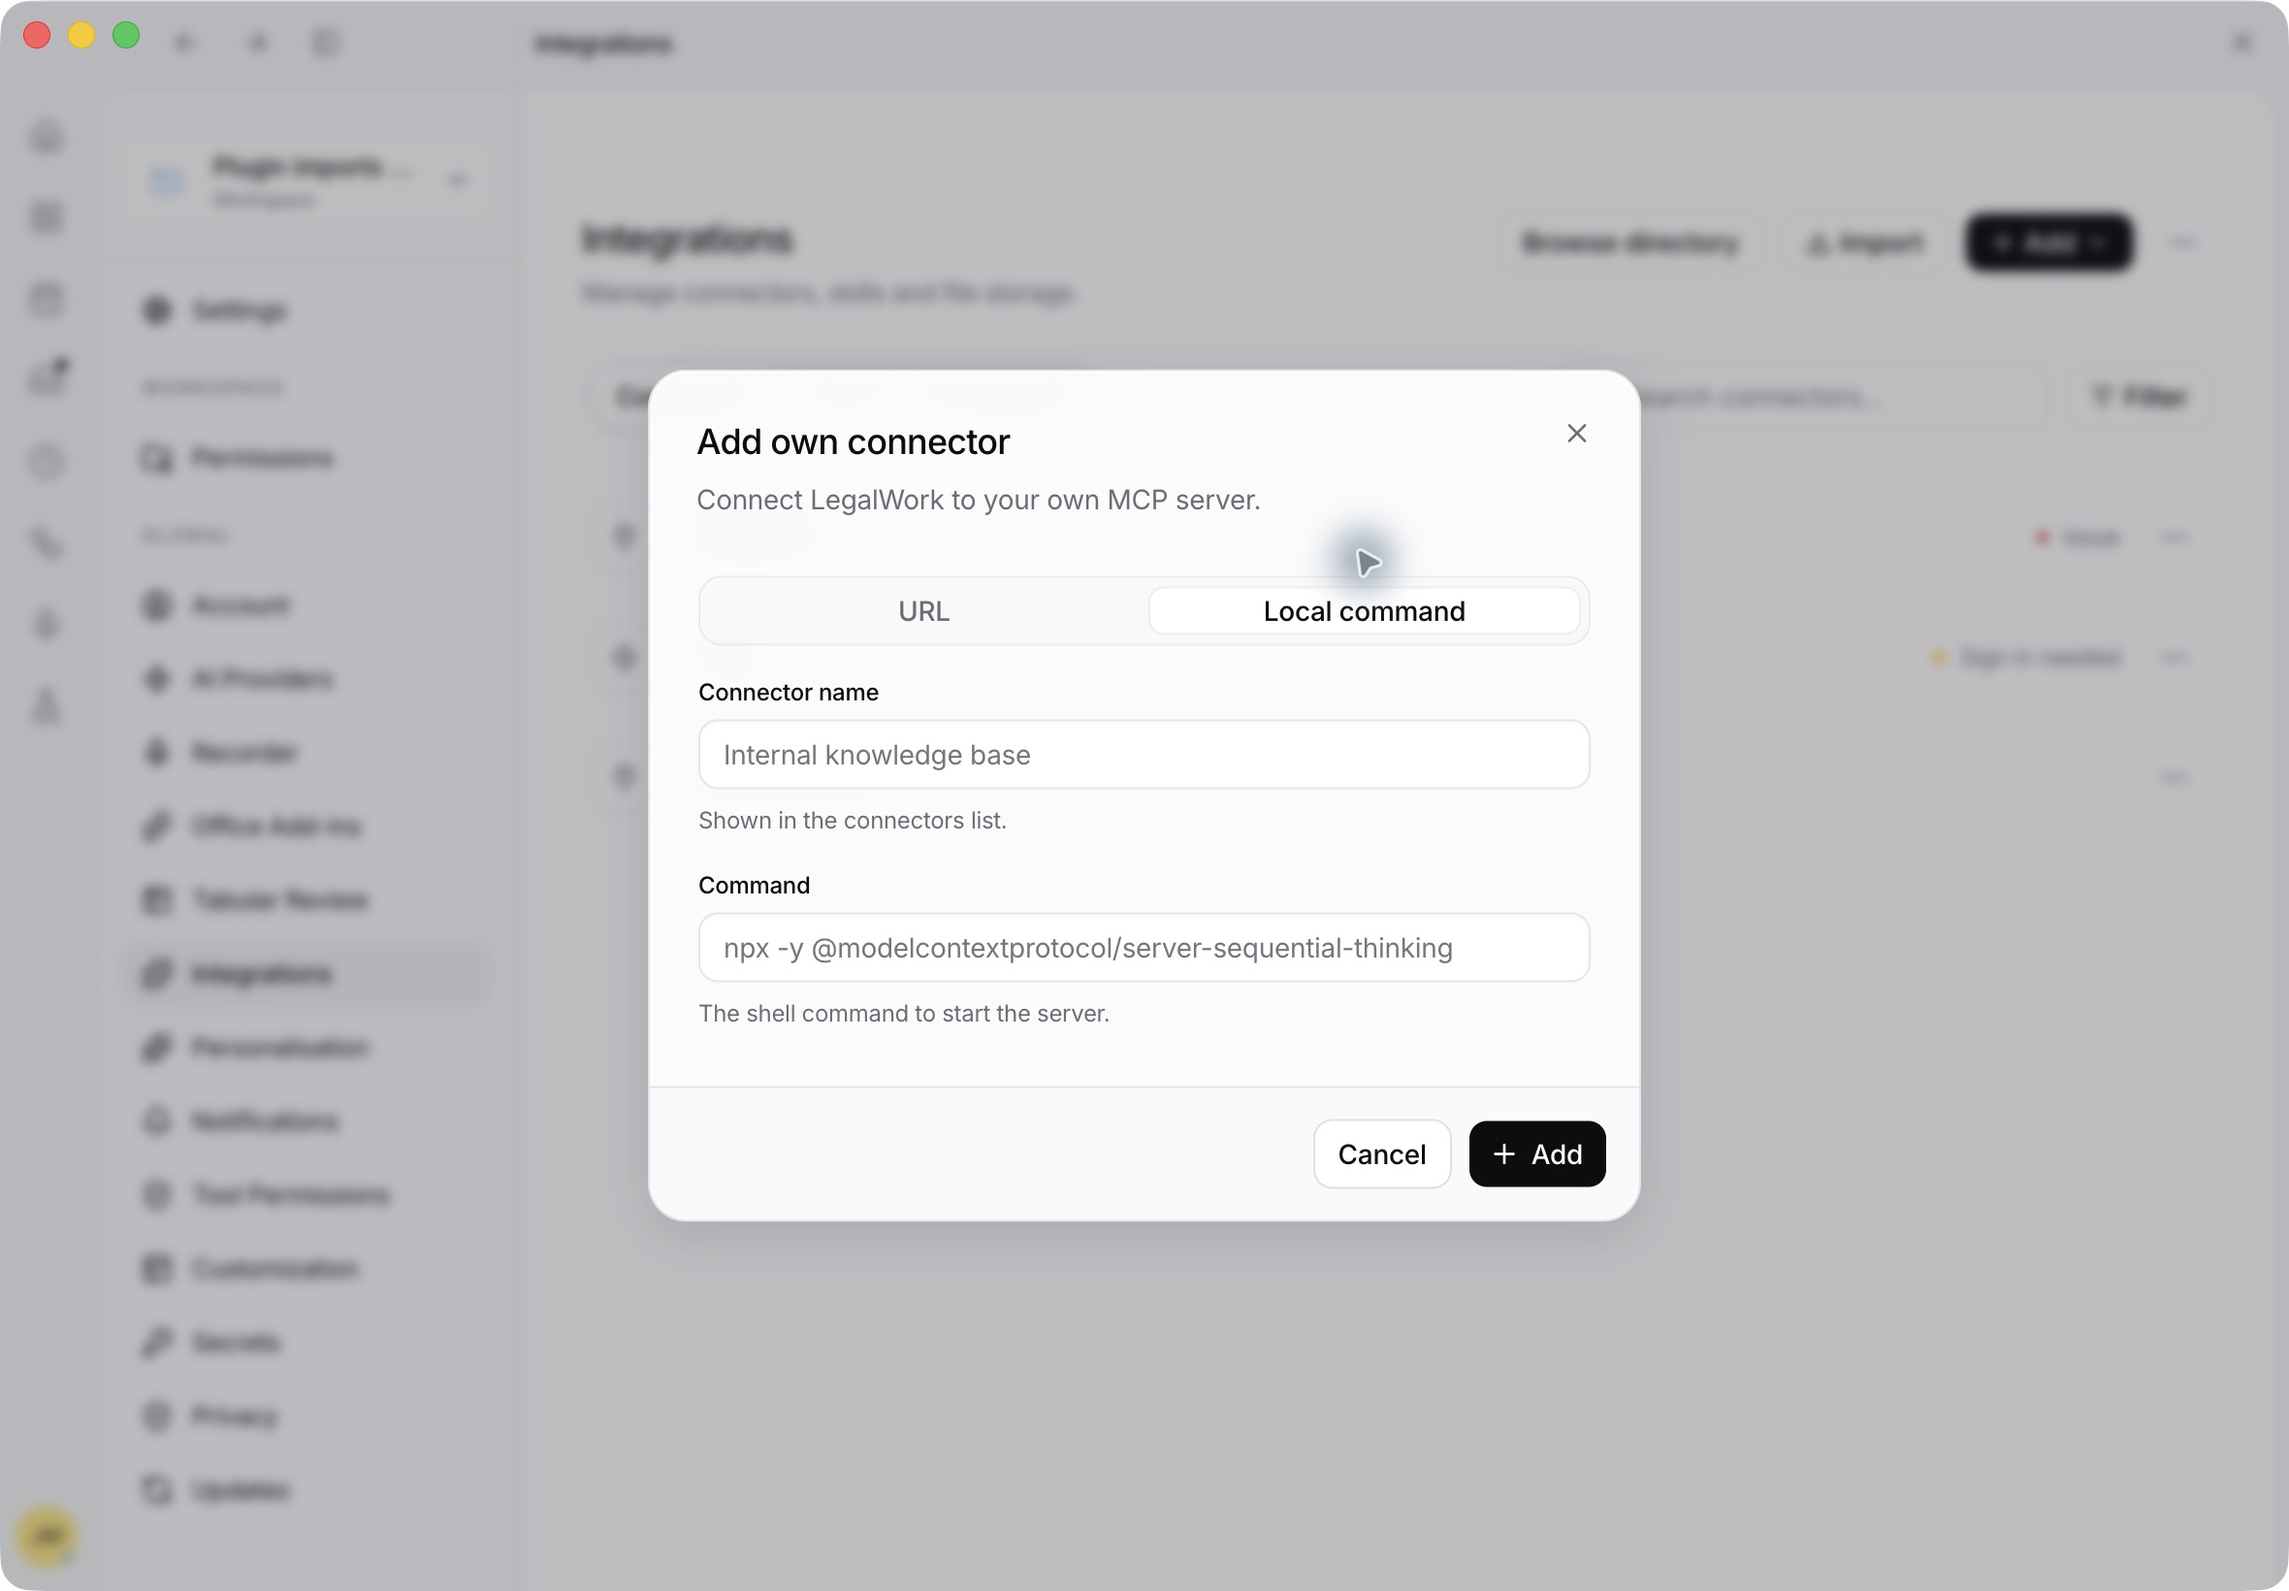
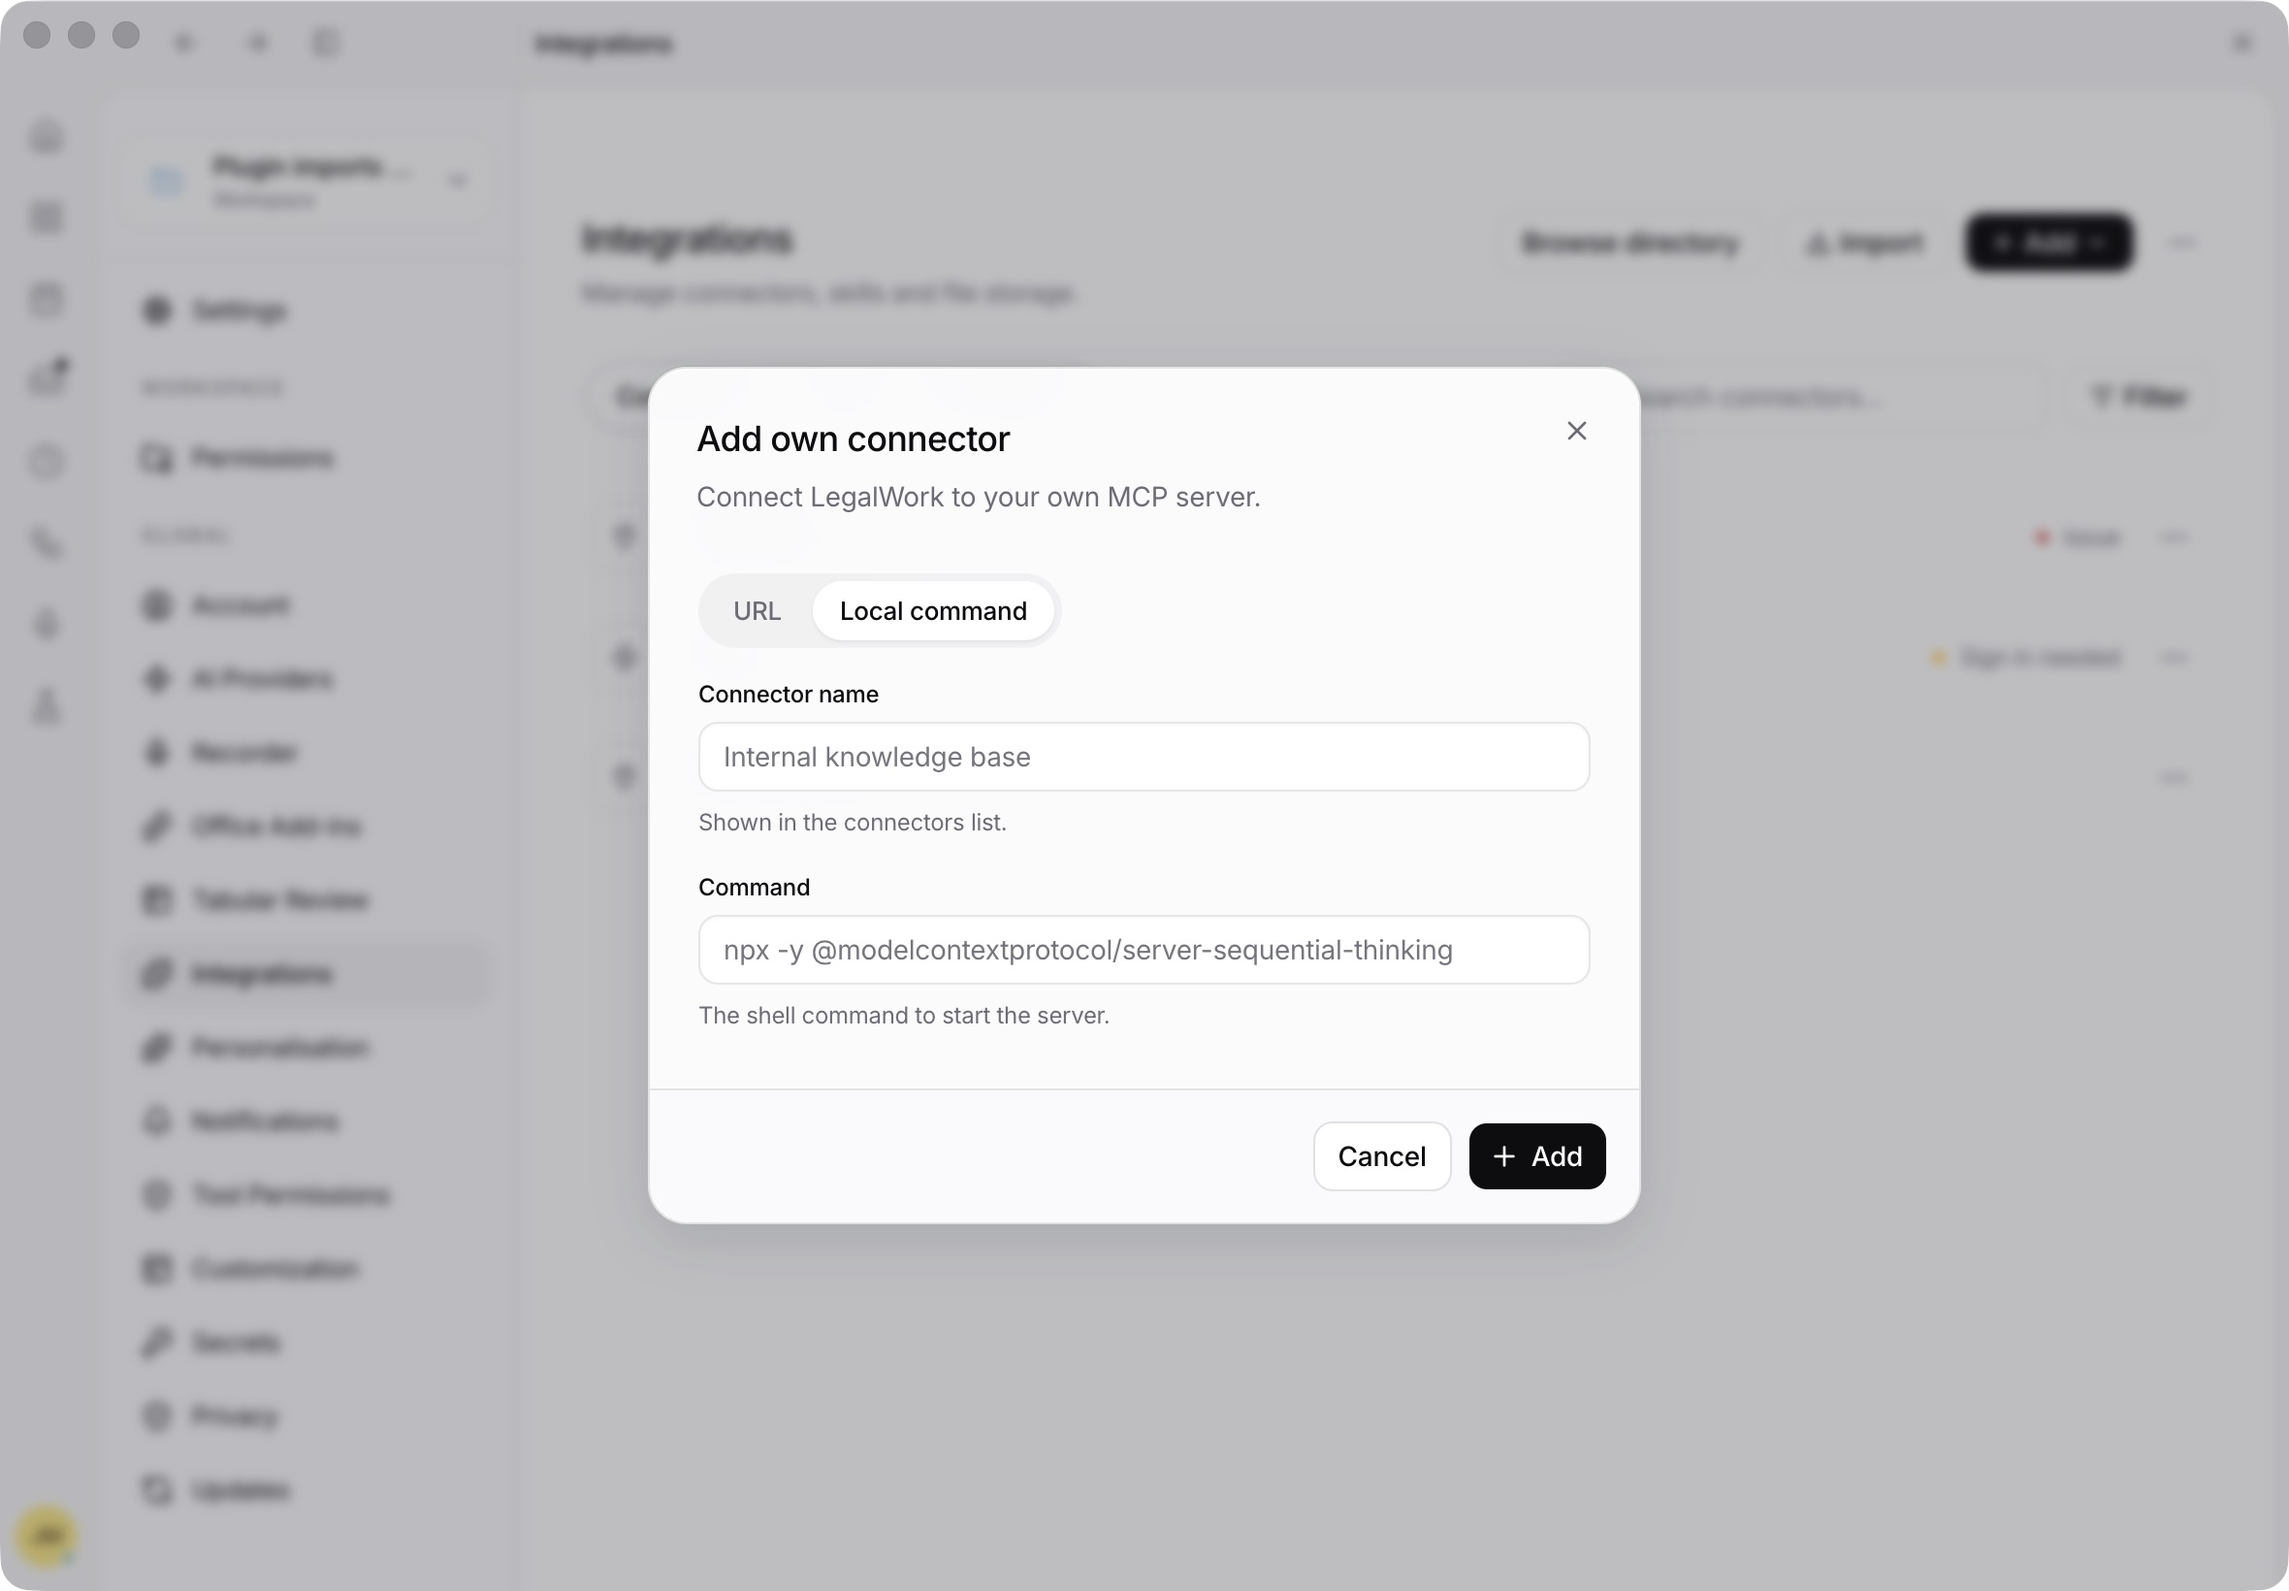
Reuse LegalWork segmented tabs in connector setup

diff --git a/apps/app/src/react-app/domains/connections/modals/add-mcp-modal.tsx b/apps/app/src/react-app/domains/connections/modals/add-mcp-modal.tsx
@@ -13,9 +13,9 @@ import {
 } from "@/components/ui/dialog";
 import { Badge } from "@/components/ui/badge";
 import { Button } from "@/components/ui/button";
-import { Tabs, TabsContent, TabsList, TabsTrigger } from "@/components/ui/tabs";
 import { RadioGroup, RadioGroupItem } from "@/components/ui/radio-group";
 import { TextInput } from "../../../design-system/text-input";
+import { HubTabs } from "../../settings/segmented-tabs";
 import type { McpDirectoryInfo } from "@/app/constants";
 import {
   AUTHORIZATION_HEADER,
@@ -344,16 +344,18 @@ export function AddMcpModal(props: AddMcpModalProps) {
 
         <div className="min-h-0 flex-1 space-y-4 overflow-y-auto px-px py-1">
           {step === "details" ? (
-            <Tabs
-              value={local ? "command" : "url"}
-              onValueChange={(value) => setCommand(value === "command" ? "" : null)}
-              className="gap-4"
-            >
+            <>
               {!props.isRemoteWorkspace ? (
-                <TabsList className="w-full" aria-label={t("mcp.connection_type")}>
-                  <TabsTrigger value="url" disabled={primaryBusy}>{t("add_mcp.url_tab")}</TabsTrigger>
-                  <TabsTrigger value="command" disabled={primaryBusy}>{t("add_mcp.local_tab")}</TabsTrigger>
-                </TabsList>
+                <HubTabs
+                  items={[
+                    { id: "url", label: t("add_mcp.url_tab") },
+                    { id: "command", label: t("add_mcp.local_tab") },
+                  ]}
+                  value={local ? "command" : "url"}
+                  onChange={(value) => setCommand(value === "command" ? "" : null)}
+                  disabled={primaryBusy}
+                  label={t("mcp.connection_type")}
+                />
               ) : null}
               <TextInput
                 label={t("add_mcp.name_label")}
@@ -362,16 +364,15 @@ export function AddMcpModal(props: AddMcpModalProps) {
                 value={form.name}
                 onChange={(event) => patch({ name: event.currentTarget.value })}
               />
-              <TabsContent value="command" aria-label={t("add_mcp.local_tab")}>
+              {local ? (
                 <TextInput
                   label={t("mcp.server_command")}
                   placeholder={t("mcp.server_command_placeholder")}
                   hint={t("mcp.server_command_hint")}
-                  value={command ?? ""}
+                  value={command}
                   onChange={(event) => setCommand(event.currentTarget.value)}
                 />
-              </TabsContent>
-              <TabsContent value="url" className="space-y-4" aria-label={t("add_mcp.url_tab")}>
+              ) : (
                 <TextInput
                   label={t("mcp.server_url")}
                   placeholder={t("mcp.server_url_placeholder")}
@@ -380,12 +381,12 @@ export function AddMcpModal(props: AddMcpModalProps) {
                   spellCheck={false}
                   onChange={(event) => patch({ url: event.currentTarget.value })}
                 />
-                <CustomConnectorHeaderFields form={form} onChange={patch} />
-                {props.isRemoteWorkspace ? (
-                  <p className="text-[11px] text-dls-secondary">{t("mcp.remote_workspace_url_hint")}</p>
-                ) : null}
-              </TabsContent>
-            </Tabs>
+              )}
+              {local ? null : <CustomConnectorHeaderFields form={form} onChange={patch} />}
+              {props.isRemoteWorkspace ? (
+                <p className="text-[11px] text-dls-secondary">{t("mcp.remote_workspace_url_hint")}</p>
+              ) : null}
+            </>
           ) : null}
 
           {step !== "details" ? (

diff --git a/apps/app/src/react-app/domains/settings/segmented-tabs.tsx b/apps/app/src/react-app/domains/settings/segmented-tabs.tsx
@@ -22,6 +22,7 @@ export function HubTabs<T extends string>(props: {
   onChange: (id: T) => void;
   className?: string;
   label?: string;
+  disabled?: boolean;
 }) {
   return (
     <div role="group" aria-label={props.label} className={cn(segmentedTrackClass, props.className)}>
@@ -32,8 +33,9 @@ export function HubTabs<T extends string>(props: {
             key={id}
             type="button"
             aria-pressed={active}
+            disabled={props.disabled}
             onClick={() => props.onChange(id)}
-            className={`${segmentedItemClass} ${active ? segmentedActiveClass : segmentedInactiveClass}`}
+            className={`${segmentedItemClass} ${active ? segmentedActiveClass : segmentedInactiveClass} disabled:pointer-events-none disabled:opacity-50`}
           >
             {Icon ? <Icon size={14} strokeWidth={1.75} /> : null}
             {label}

diff --git a/docs/plugin-imports.md b/docs/plugin-imports.md
@@ -122,6 +122,6 @@ Earlier native checks covered both providers' discovery, folder/ZIP pickers, com
 
 The common-tools menu passed app type checking, the focused 20-test suite and the production build. Native Electron verified the same menu entries on Connectors, Skills and File storage, opening Imported packages from Connectors and File storage without changing categories, and returning focus to More on close. Open skills folder from File storage revealed the existing skills directory in Finder. No package, account or membership was changed.
 
-Connector setup uses **URL / Local command** tabs above the shared name field. URL shows the server address and request-header controls with Continue; Local command shows the command field with Add. Remote workers retain URL-only setup. Native Electron verified switching in both directions with mouse and keyboard, without submitting the form or running a command. App type checking passed; `pnpm --filter @legalwork/app exec bun test tests/add-mcp-modal.test.tsx tests/mcp-custom-connector.test.ts` passed all 20 tests, and `pnpm --filter @legalwork/app test:i18n` passed with 5,757 keys in English/German.
+Connector setup reuses the same **HubTabs** segmented switcher as Integrations and Recorder for **URL / Local command**, above the shared name field. Its shape, spacing, selected surface and focus treatment come from that shared component. URL shows the server address and request-header controls with Continue; Local command shows the command field with Add. Remote workers retain URL-only setup. Native Electron verified switching in both directions with mouse and keyboard, without submitting the form or running a command. App type checking and the production build passed; `pnpm --filter @legalwork/app exec bun test tests/add-mcp-modal.test.tsx tests/mcp-custom-connector.test.ts tests/integration-libraries.test.tsx` passed all 29 tests, and `pnpm --filter @legalwork/app test:i18n` passed with 5,757 keys in English/German.
 
 ![Connector setup with URL and Local command tabs](images/integrations-connector-command-tabs.png)

diff --git a/docs/design-system.md b/docs/design-system.md
@@ -109,6 +109,7 @@ import { FolderIcon } from "@/react-app/design-system/folder-icon";
 - `IconTile`: `sm`, `md`, or `lg`; `default`, `glass`, or `inset`. Use it to give feature/action icons a consistent container, not around every dense file-tree glyph.
 - `PanelHeader` and `PanelEmptyState`: shared compact chrome and empty/loading/unavailable-state layout for file browsers and preview panes. Headers keep the title, metadata, and action areas aligned; empty states use the same icon tile and text measure.
 - `Button`: existing `default`, `outline`, `secondary`, `ghost`, `destructive`, and `link` variants. Use a real `disabled` state and `aria-busy` for busy actions. Icon-only actions need an accessible name. A tooltip supplements that name.
+- Segmented category and mode switchers: reuse `HubTabs` from `domains/settings/segmented-tabs.tsx`, as on Integrations and Recorder. It owns the pill shape, spacing, selected surface and focus treatment; use it unchanged for choices such as URL / Local command.
 - `FolderIcon`: layered light-blue SVG with `open` state. `WorkspaceIcon` delegates to it. Each SVG has unique gradient IDs so multiple instances remain reliable.
 - `DocumentIcon`: one folded-paper asset family with subtle type-specific tints and content glyphs for documents, sheets, slides, media, PDF, and code. Existing `ArtifactIcon` adapts artifact types to this component.
 - Menus/dialogs/sheets: retain the Base UI wrappers. Use the trigger `render` API to compose the app button; avoid nested buttons. Keep destructive actions semantically distinct.
